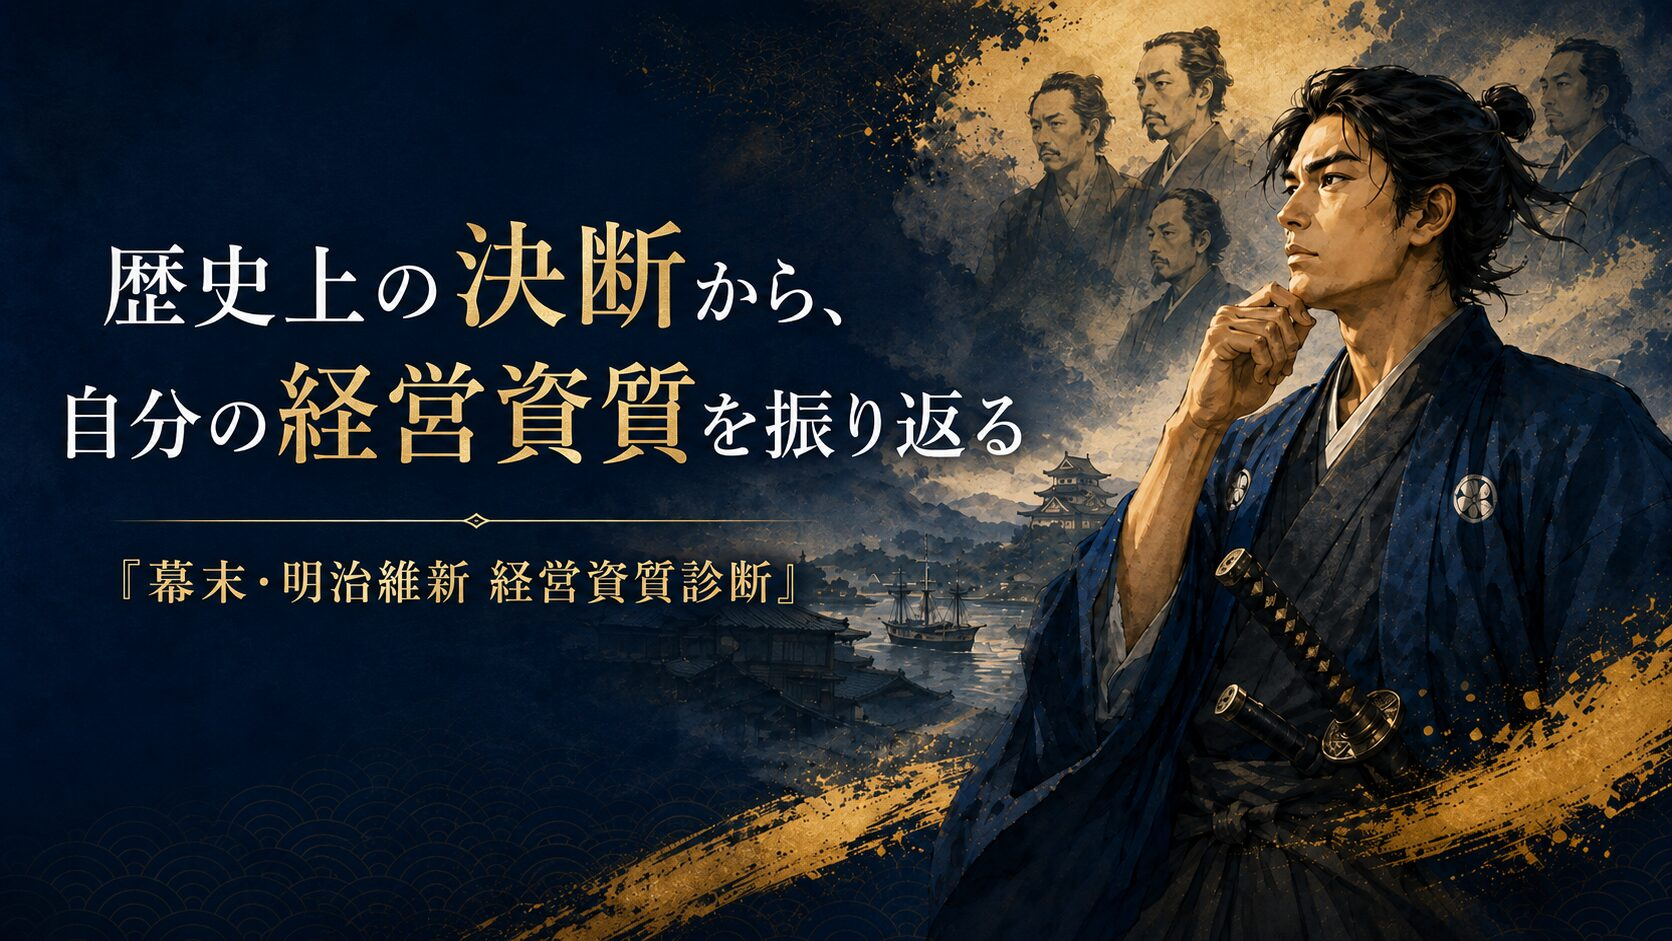
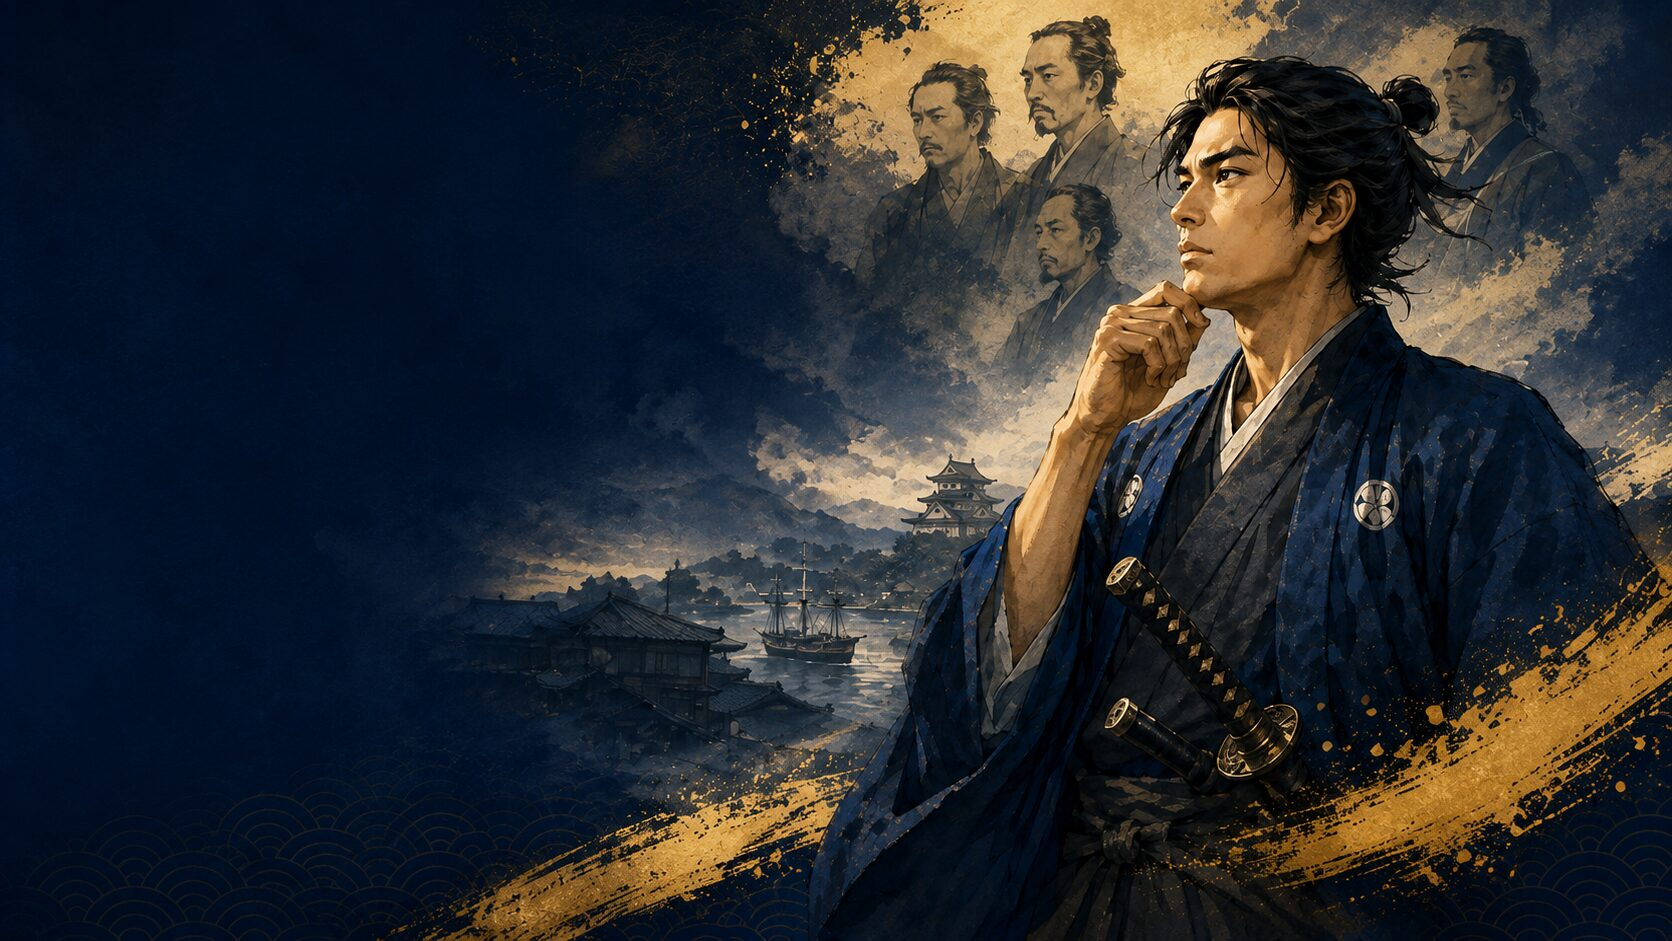
変更

diff --git a/src/app/globals.css b/src/app/globals.css
@@ -2114,3 +2114,171 @@ h3 {
     min-width: 0;
   }
 }
+
+
+/* Development targeted final polish */
+.development-shell {
+  padding-top: clamp(18px, 3vw, 34px);
+}
+
+.development-top-nav {
+  justify-content: flex-start;
+  margin-bottom: clamp(18px, 3vw, 34px);
+}
+
+.development-back-button {
+  display: inline-flex;
+  align-items: center;
+  justify-content: center;
+  min-height: 52px;
+  padding: 0 28px;
+  border: 1px solid rgba(193, 159, 79, 0.56);
+  background: rgba(8, 9, 11, 0.72);
+  color: var(--ink-strong);
+  font-weight: 800;
+  text-decoration: none;
+}
+
+.development-back-button::before {
+  content: "←";
+  margin-right: 10px;
+  color: var(--gold);
+}
+
+.development-hero img {
+  object-position: center right;
+  opacity: 0.76;
+}
+
+.development-hero-shade {
+  background:
+    linear-gradient(90deg, rgba(5, 7, 10, 0.96) 0%, rgba(5, 7, 10, 0.82) 43%, rgba(5, 7, 10, 0.28) 100%),
+    linear-gradient(180deg, rgba(5, 7, 10, 0.02), rgba(5, 7, 10, 0.88));
+}
+
+.development-hero-copy {
+  max-width: 900px;
+}
+
+.development-hero-copy h1 {
+  font-size: clamp(3rem, 5.6vw, 5.6rem);
+  line-height: 1.2;
+}
+
+.development-hero-copy h1 span {
+  display: block;
+}
+
+.development-edition-card h3 {
+  white-space: nowrap;
+  font-size: clamp(1.24rem, 1.72vw, 1.62rem);
+}
+
+.development-actions {
+  display: flex;
+  flex-wrap: nowrap;
+  gap: 12px;
+  margin-top: auto;
+  padding-top: 24px;
+}
+
+.development-actions .primary-button,
+.development-actions .ghost-button {
+  display: inline-flex;
+  flex: 1 1 0;
+  align-items: center;
+  justify-content: center;
+  min-height: 56px;
+  padding: 0 18px;
+  white-space: nowrap;
+  text-align: center;
+  text-decoration: none;
+}
+
+.development-related {
+  border-top: 1px solid rgba(193, 159, 79, 0.38);
+  padding-top: clamp(40px, 6vw, 64px);
+}
+
+.development-related ul {
+  display: grid;
+  grid-template-columns: repeat(3, minmax(0, 1fr));
+  gap: 14px;
+  padding: 0;
+  margin: 28px 0 0;
+  list-style: none;
+}
+
+.development-related li {
+  margin: 0;
+}
+
+.development-related a {
+  display: flex;
+  min-height: 132px;
+  flex-direction: column;
+  justify-content: space-between;
+  border: 1px solid rgba(193, 159, 79, 0.42);
+  background:
+    linear-gradient(135deg, rgba(193, 159, 79, 0.14), rgba(6, 8, 11, 0.82)),
+    rgba(8, 9, 11, 0.68);
+  padding: 22px;
+  color: var(--ink-strong);
+  text-decoration: none;
+}
+
+.development-related a span {
+  font-size: 1.08rem;
+  font-weight: 800;
+  line-height: 1.5;
+}
+
+.development-related a small {
+  color: var(--gold);
+  font-family: var(--sans);
+  line-height: 1.5;
+}
+
+.development-related a:hover,
+.development-back-button:hover {
+  border-color: rgba(193, 159, 79, 0.78);
+  background-color: rgba(193, 159, 79, 0.1);
+}
+
+@media (max-width: 860px) {
+  .development-hero img {
+    object-position: 67% center;
+    opacity: 0.64;
+  }
+
+  .development-hero-shade {
+    background:
+      linear-gradient(90deg, rgba(5, 7, 10, 0.92) 0%, rgba(5, 7, 10, 0.78) 58%, rgba(5, 7, 10, 0.42) 100%),
+      linear-gradient(180deg, rgba(5, 7, 10, 0.04), rgba(5, 7, 10, 0.9));
+  }
+
+  .development-hero-copy h1 {
+    font-size: clamp(2.45rem, 10.5vw, 4.2rem);
+  }
+
+  .development-related ul {
+    grid-template-columns: 1fr;
+  }
+}
+
+@media (max-width: 430px) {
+  .development-actions {
+    gap: 10px;
+  }
+
+  .development-actions .primary-button,
+  .development-actions .ghost-button {
+    min-height: 52px;
+    padding: 0 10px;
+    font-size: 0.94rem;
+  }
+
+  .development-edition-card h3 {
+    font-size: clamp(1.05rem, 4.6vw, 1.28rem);
+  }
+}

diff --git a/src/app/development/page.tsx b/src/app/development/page.tsx
@@ -29,10 +29,10 @@ function DevelopmentSection({ section }: { section: DevelopmentPageSection }) {
 
 export default function DevelopmentPage() {
   return (
-    <main className="app-shell">
+    <main className="app-shell development-shell">
       <section className="development-view" id="development-story">
-        <nav className="top-nav development-top-nav" aria-label="開発への思い">
-          <a className="ghost-button" href="/">
+        <nav className="top-nav development-top-nav" aria-label="開発に込めた思い">
+          <a className="ghost-button development-back-button" href="/">
             アプリに戻る
           </a>
         </nav>
@@ -42,7 +42,10 @@ export default function DevelopmentPage() {
           <div className="development-hero-shade" />
           <div className="development-hero-copy">
             <p className="eyebrow">開発に込めた思い</p>
-            <h1>歴史上の決断から、自分の経営資質を振り返る</h1>
+            <h1>
+              <span>歴史上の決断から</span>
+              <span>自分の経営資質を振り返る</span>
+            </h1>
             <p>『幕末・明治維新 経営資質診断』開発に込めた思い</p>
           </div>
         </header>
@@ -70,7 +73,7 @@ export default function DevelopmentPage() {
             </p>
 
             <div className="development-edition-grid">
-              <div className="development-edition-card">
+              <article className="development-edition-card">
                 <p className="edition-label">体験版</p>
                 <h3>物語を約10分で体験できます。</h3>
                 <p>
@@ -86,9 +89,9 @@ export default function DevelopmentPage() {
                     続きから始める
                   </a>
                 </div>
-              </div>
+              </article>
 
-              <div className="development-edition-card">
+              <article className="development-edition-card">
                 <p className="edition-label">完全版</p>
                 <h3>物語をじっくり体験できます。</h3>
                 <p>歴史人物たちの葛藤や対話、時代背景まで丁寧に描いた本編です。</p>
@@ -103,10 +106,10 @@ export default function DevelopmentPage() {
                     完全版を始める
                   </a>
                   <a className="ghost-button" href="/">
-                    完全版の続きから始める
+                    続きから始める
                   </a>
                 </div>
-              </div>
+              </article>
             </div>
           </section>
 
@@ -115,22 +118,26 @@ export default function DevelopmentPage() {
           ))}
 
           <section className="development-related">
+            <p className="eyebrow">Links</p>
             <h2>関連ページ</h2>
-            <p>アプリの活用、研修や企業支援での利用などについては、お問い合わせページからご連絡ください。</p>
+            <p>アプリの活用、研修や企業支援での利用などについては、各ページからご確認ください。</p>
             <ul>
               <li>
                 <a href={developmentPageLinks.youth} target="_blank" rel="noopener noreferrer">
-                  兵庫県中小企業診断士協会 青年部会 ホームページ
+                  <span>兵庫県中小企業診断士協会 青年部会</span>
+                  <small>青年部会の活動を見る</small>
                 </a>
               </li>
               <li>
                 <a href={developmentPageLinks.profile} target="_blank" rel="noopener noreferrer">
-                  開発者・岡本一幸の紹介ページ
+                  <span>開発者・岡本一幸の紹介ページ</span>
+                  <small>開発者のプロフィールを見る</small>
                 </a>
               </li>
               <li>
                 <a href={developmentPageLinks.contact} target="_blank" rel="noopener noreferrer">
-                  お問い合わせページ
+                  <span>お問い合わせページ</span>
+                  <small>研修・企業支援での活用を相談する</small>
                 </a>
               </li>
             </ul>